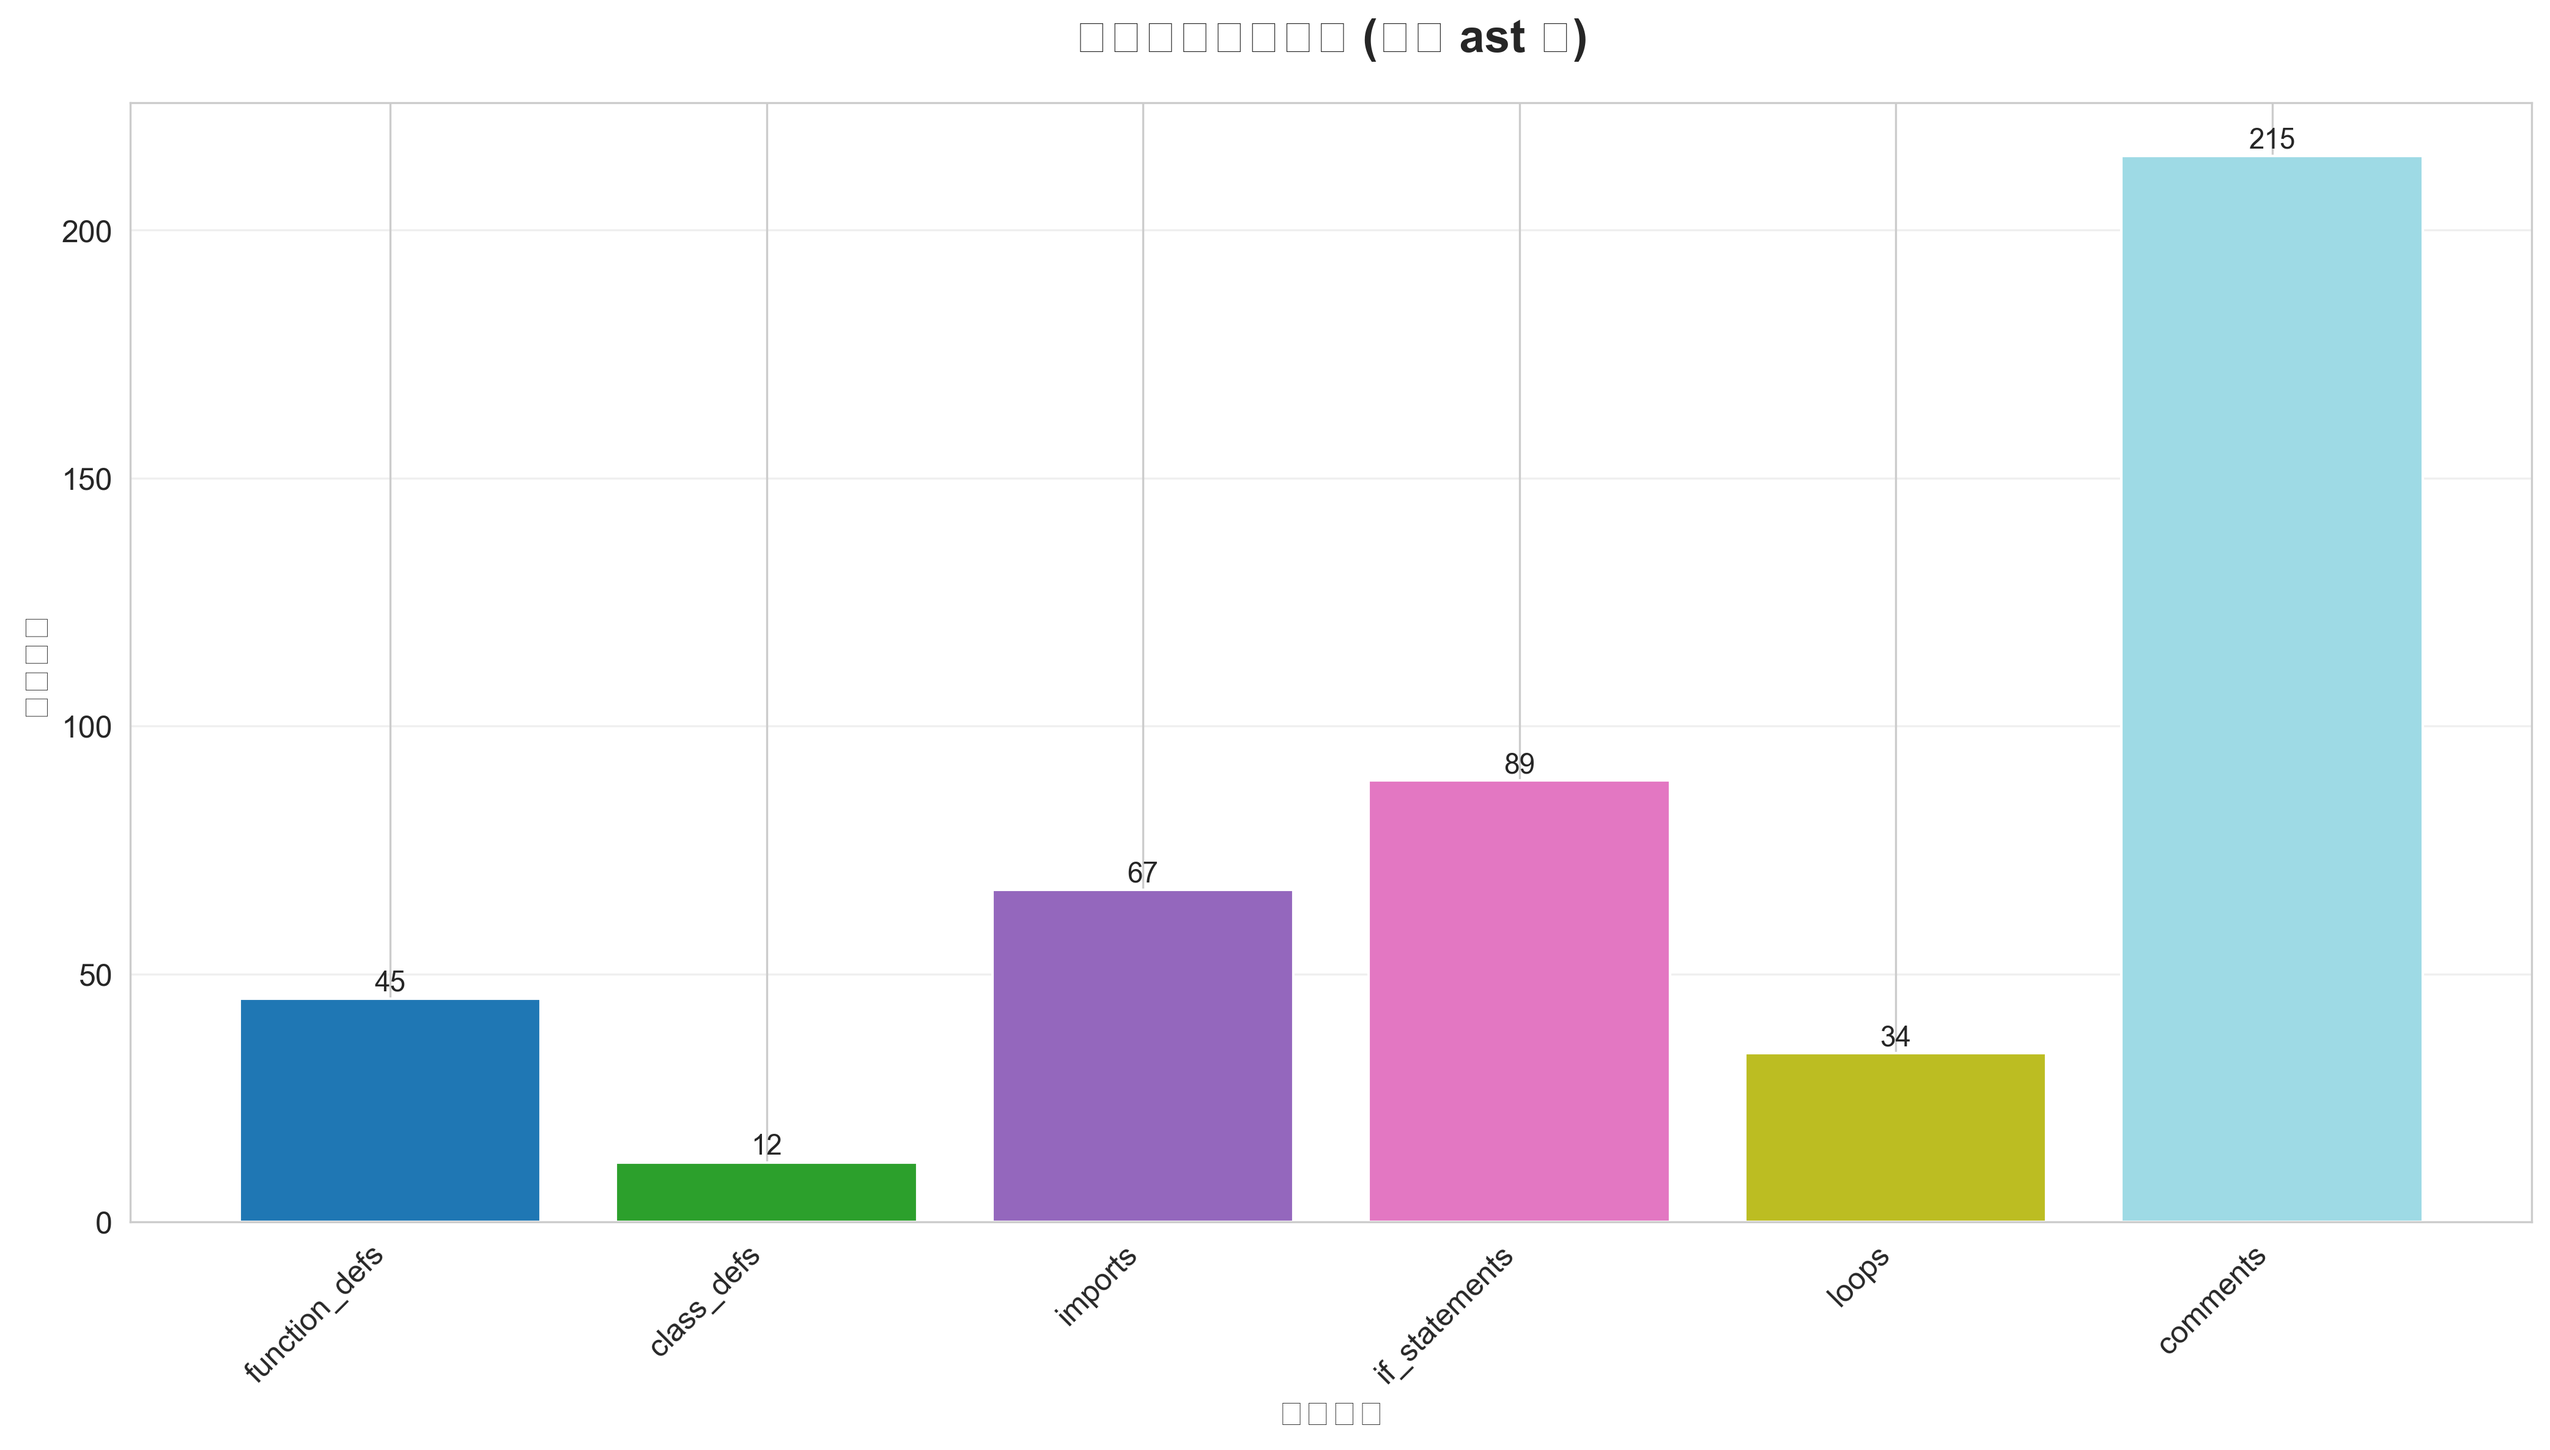
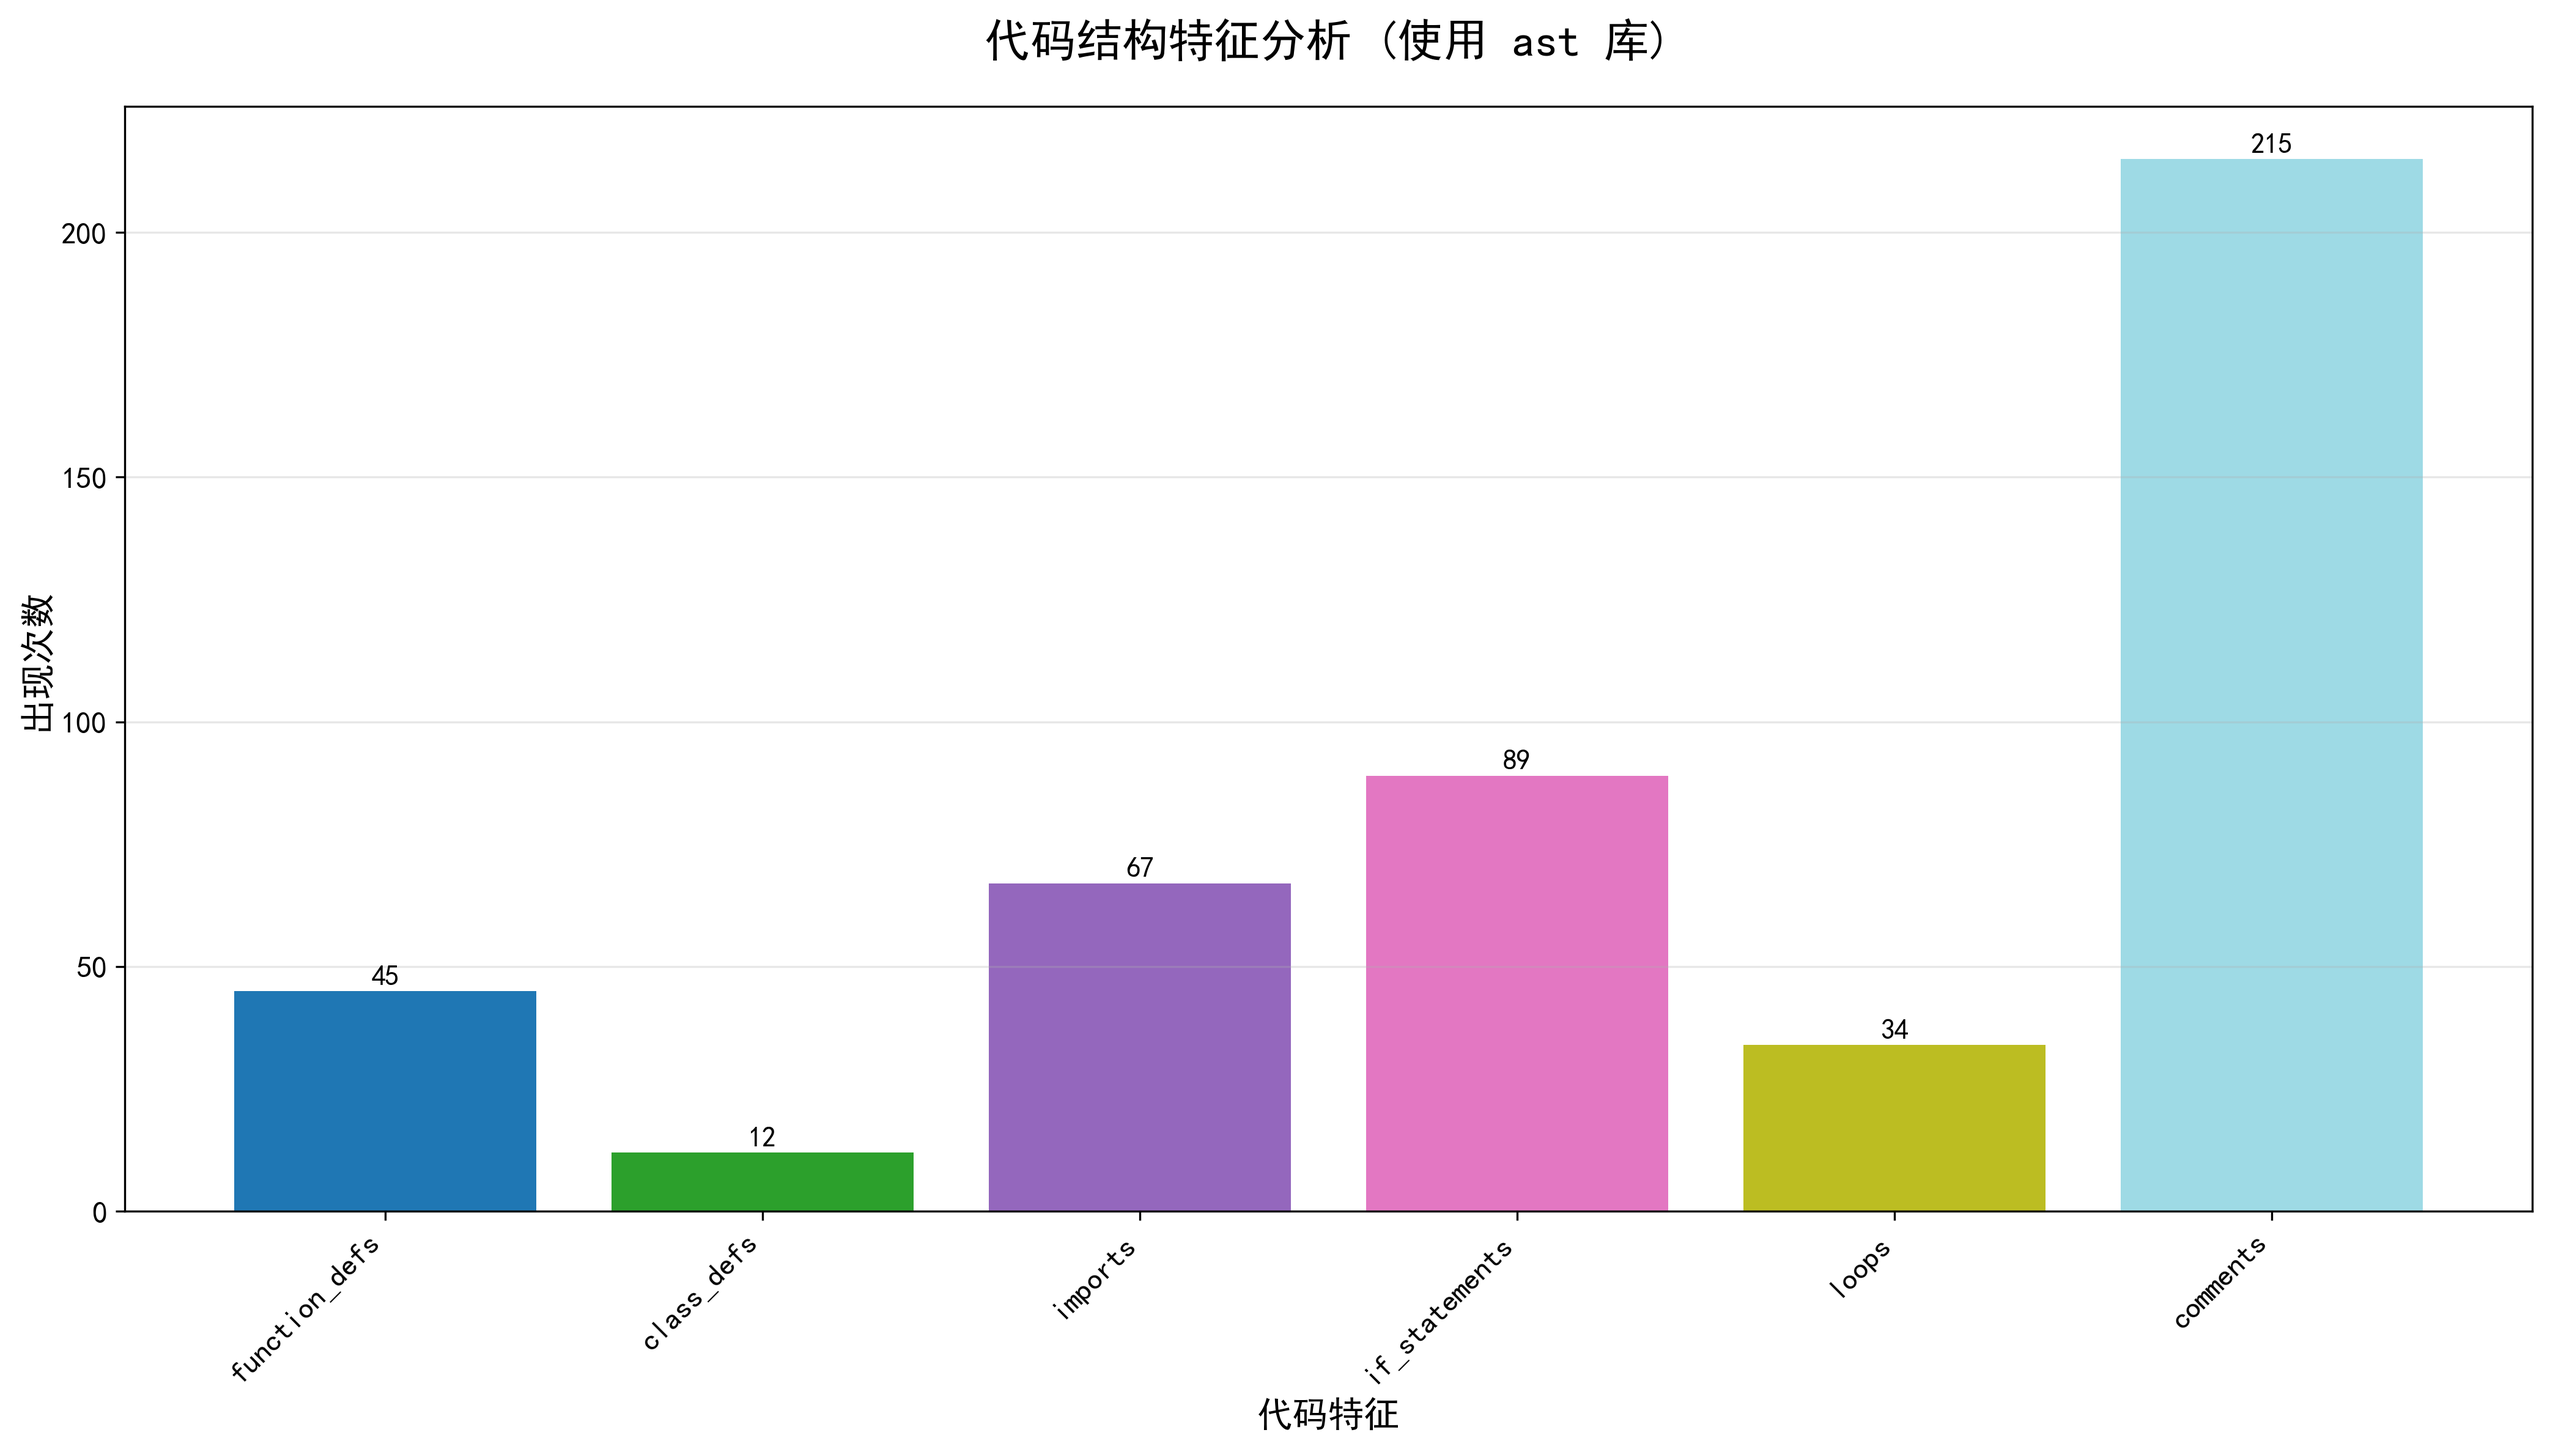
feat(analysis): 更新requests项目历史分析结果，优化中文显示

diff --git a/src/analysis.py b/src/analysis.py
@@ -1,5 +1,6 @@
 import pandas as pd
 import matplotlib.pyplot as plt
+import matplotlib as mpl
 import seaborn as sns
 import os
 from datetime import datetime
@@ -11,9 +12,9 @@ import ast
 from collections import Counter
 
 # 设置 matplotlib 支持中文
-plt.rcParams['font.sans-serif'] = ['SimHei', 'Microsoft YaHei', 'Arial Unicode MS', 'sans-serif']
-plt.rcParams['axes.unicode_minus'] = False  # 正常显示负号
-sns.set_style("whitegrid")
+mpl.rcParams['font.family'] = 'sans-serif'
+mpl.rcParams['font.sans-serif'] = ['SimHei', 'Microsoft YaHei', 'KaiTi', 'Arial Unicode MS']
+mpl.rcParams['axes.unicode_minus'] = False
 
 def robust_date_parser(date_str):
     """健壮的日期解析函数，处理各种可能的日期格式"""

diff --git a/results/analysis/analysis_report.md b/results/analysis/analysis_report.md
@@ -3,7 +3,7 @@
 
 ## 📋 项目概览
 - **项目名称**: requests (https://github.com/psf/requests)
-- **分析时间**: 2026-01-11 22:43:05
+- **分析时间**: 2026-01-12 11:16:45
 - **分析范围**: 最近 1128 个提交
 - **时间跨度**: 2018-06-05 至 2025-10-13
 - **活跃度评分**: 100/100 ⭐
@@ -90,7 +90,7 @@
 ### 数据收集
 - **来源**: GitHub 仓库直接克隆
 - **范围**: 最近 1128 个提交
-- **时间**: 2026-01-11
+- **时间**: 2026-01-12
 
 ### 使用的技术栈
 - **GitPython**: 获取仓库提交历史

diff --git a/README.md b/README.md
@@ -12,7 +12,7 @@
 ## 项目结构
 - src/: 源代码
 - data/: 原始数据
-- results/: 分析结果与图表
+- results/: 分析结果与
 - docs/: 项目文档
 - tests/: 测试代码
 
